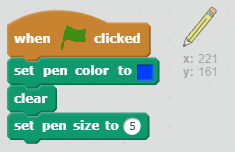
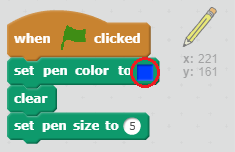
Clarify pen colour

Changed region(s): [[0.5362, 0.3684, 0.6851, 0.5789]]

diff --git a/en/step_3.md b/en/step_3.md
@@ -8,7 +8,6 @@ title: I'm using Scratch online
 ---
 
 + Open the 'CATS!' Scratch starter project at [jumpto.cc/cats-go](http://jumpto.cc/cats-go){:target="_blank"}.
-Real link - https://scratch.mit.edu/projects/171181805/
 
 + If you have a Scratch account, you can click on **Remix** on the top right to save a copy of the project to your account
 
@@ -27,6 +26,8 @@ Download the [cats.sb2](resources/cats.sb2){:target="_blank"} Scratch starter pr
 + Click on the sprite called 'Pen' and add code to set the pen colour to the same blue as the obstacles on the stage, clear the screen and set the pen size to 5.
 
 ![Set pen color](images/pen-color.png)
+
+You can select a colour by clicking on the colour block (circled) to get the pipette cursor, followed by clicking on the colour you want on the stage.
 
 + Add some more code to make the sprite follow the mouse pointer. Test your program to check that the code works.
 
